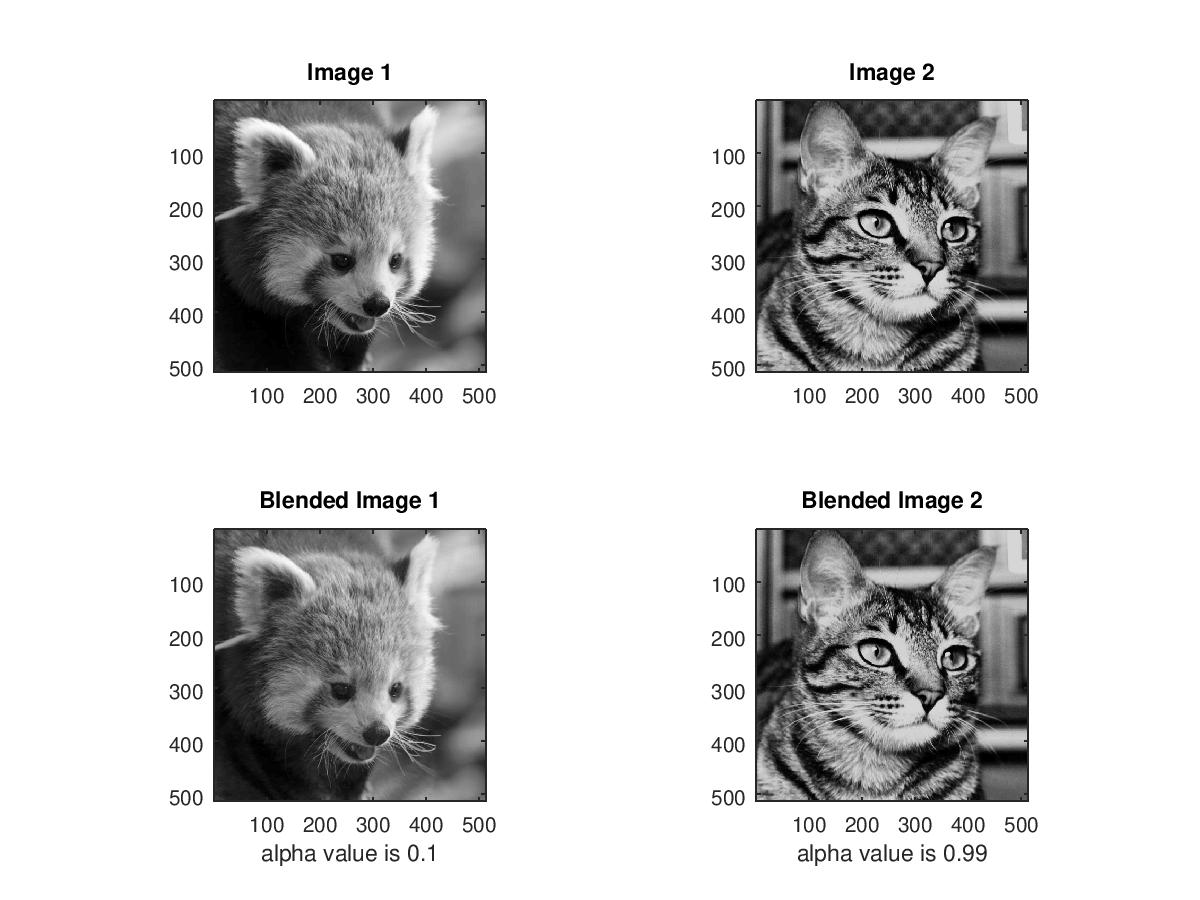
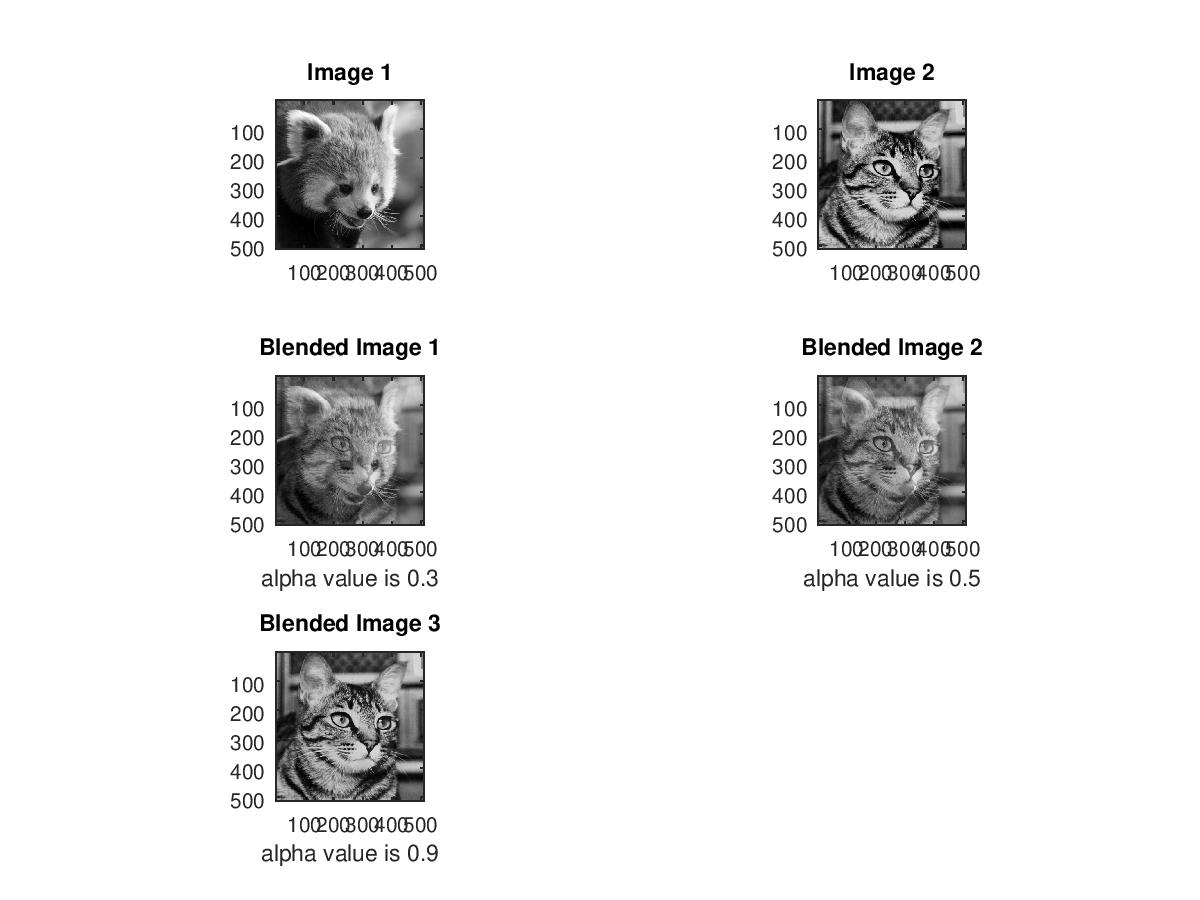
Working on Image Processing

diff --git a/imageProcessing/_1_imageHide.m b/imageProcessing/_1_imageHide.m
@@ -24,14 +24,28 @@ for i=1:m
   end
 end
 
+alpha3=input('enter the value of alpha:');
+
+for i=1:m
+  for j=1:n
+    cl2(i,j)=(1-alpha3)*a(i,j) + alpha3*b(i,j);
+  end
+end
+
+
+
+
 figure;
 
-subplot(2,2,1),imshow(a) , title('Image 1')
+subplot(3,2,1),imshow(a) , title('Image 1')
 
-subplot(2,2,2),imshow(b) , title('Image 2')
+subplot(3,2,2),imshow(b) , title('Image 2')
 
-subplot(2,2,3),imshow(cl) , title('Blended Image 1')
+subplot(3,2,3),imshow(cl) , title('Blended Image 1')
 xlabel(sprintf('alpha value is %g',alpha))
 
-subplot(2,2,4),imshow(cl1) , title('Blended Image 2')
+subplot(3,2,4),imshow(cl1) , title('Blended Image 2')
 xlabel(sprintf('alpha value is %g',alpha2))
+
+subplot(3,2,5),imshow(cl2) , title('Blended Image 3')
+xlabel(sprintf('alpha value is %g',alpha3))
